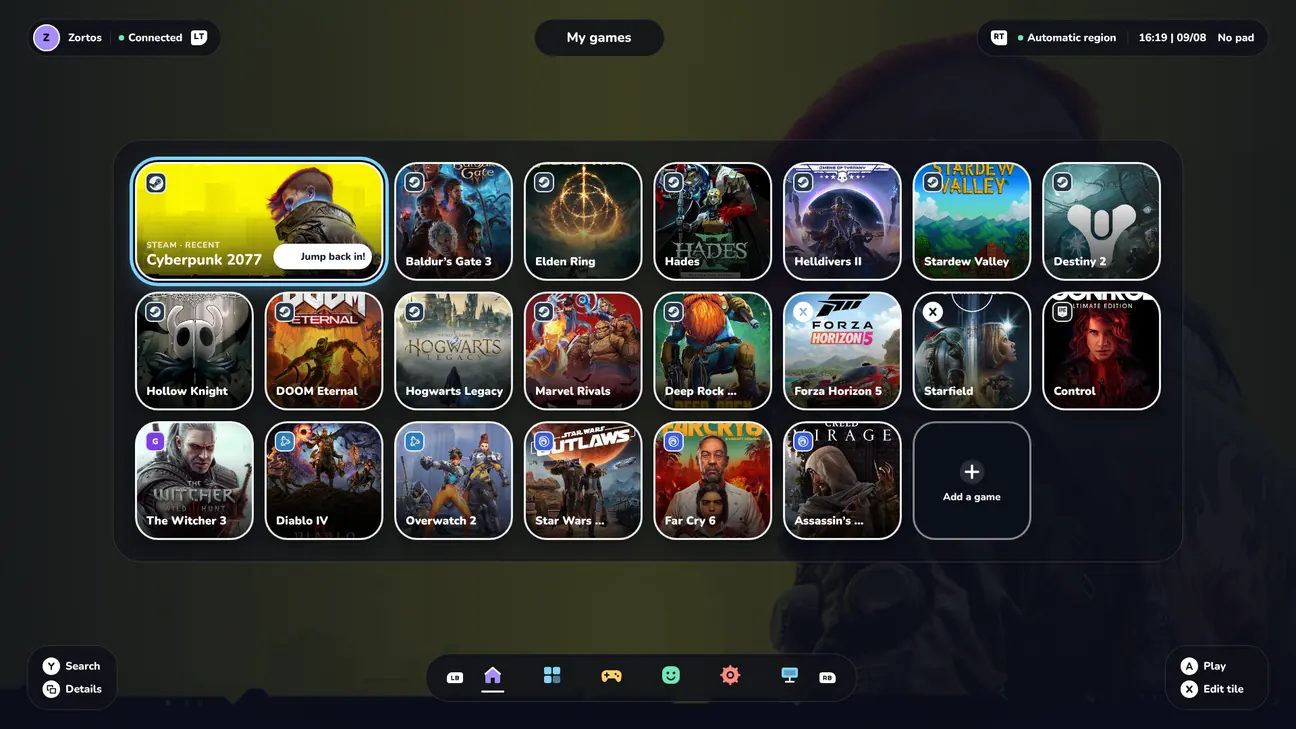
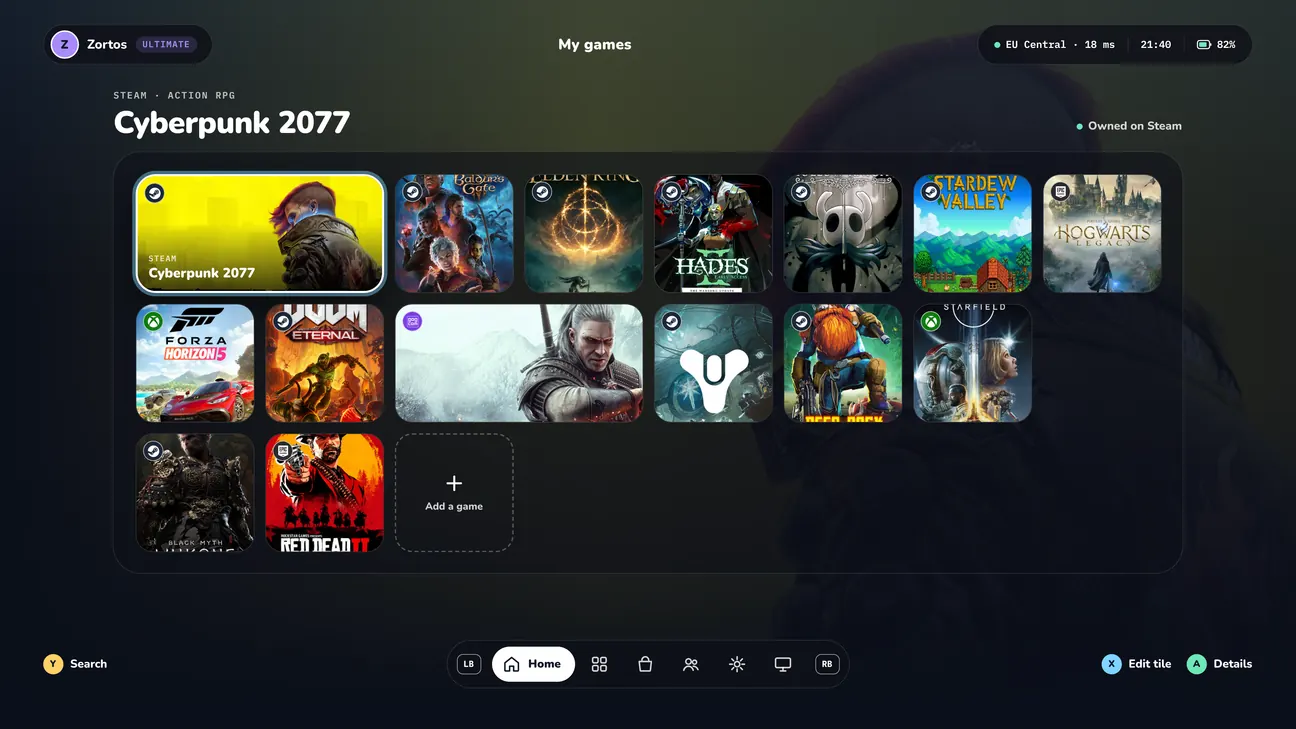
feat: console-mode visuals from the Game Mode v4 Paper file
Front page console window is now Game Mode v4 · 01 Home (1-0). Docs gain
console figures: Settings › Streaming (2TU-0) in Configuration, Settings ›
Input & controllers (3FL-0) in Input, and launch queue/connecting (192-0,
1ES-0), Guide over the stream (1OJ-0) and Guide › Controllers & co-op
(1RK-0) in Troubleshooting.

diff --git a/src/routes/index.tsx b/src/routes/index.tsx
@@ -199,7 +199,7 @@ const pillPrimary =
 const pillGlass =
   'inline-flex h-14 items-center justify-center gap-3 rounded-full border border-seam bg-[rgb(14_16_24/82%)] px-7 text-[18px] font-extrabold leading-6 text-white transition-colors hover:bg-[rgb(30_36_52/92%)] sm:h-16';
 
-/** A real app screen from the OpenNOW Paper master file, framed like the docs' app figures. */
+/** A real app screen from the OpenNOW Paper files (master file, console mode from Game Mode v4), framed like the docs' app figures. */
 function AppWindow({ src, label, alt }: { src: string; label: string; alt: string }) {
   return (
     <figure className="overflow-hidden rounded-xl border border-seam-soft bg-surface">
@@ -287,7 +287,7 @@ function Home() {
           <AppWindow
             src="console"
             label="In the app · Console mode · My games"
-            alt="OpenNOW console mode: the My games grid of large game tiles with store badges and a focus ring on Cyberpunk 2077, the account and region pills along the top and the controller dock along the bottom."
+            alt="OpenNOW console mode, My games: Cyberpunk 2077 focused as a wide tile at the start of a grid of large game tiles with store badges and an Add a game tile, the profile, region, clock and battery pills along the top, and the controller dock with Search, Edit tile and Details hints along the bottom."
           />
         </div>
 

diff --git a/src/components/docs/AppFigure.tsx b/src/components/docs/AppFigure.tsx
@@ -8,6 +8,12 @@ const SIZES: Record<string, { width: number; height: number }> = {
   'troubleshooting-ctrlg': { width: 720, height: 900 },
   'input-controllers': { width: 720, height: 900 },
   'authentication-providers': { width: 720, height: 780 },
+  'configuration-streaming': { width: 1136, height: 669 },
+  'input-settings': { width: 1136, height: 669 },
+  'troubleshooting-queue': { width: 1136, height: 639 },
+  'troubleshooting-connecting': { width: 1136, height: 639 },
+  'troubleshooting-console-guide': { width: 1136, height: 639 },
+  'troubleshooting-console-controllers': { width: 720, height: 900 },
 };
 
 /**
